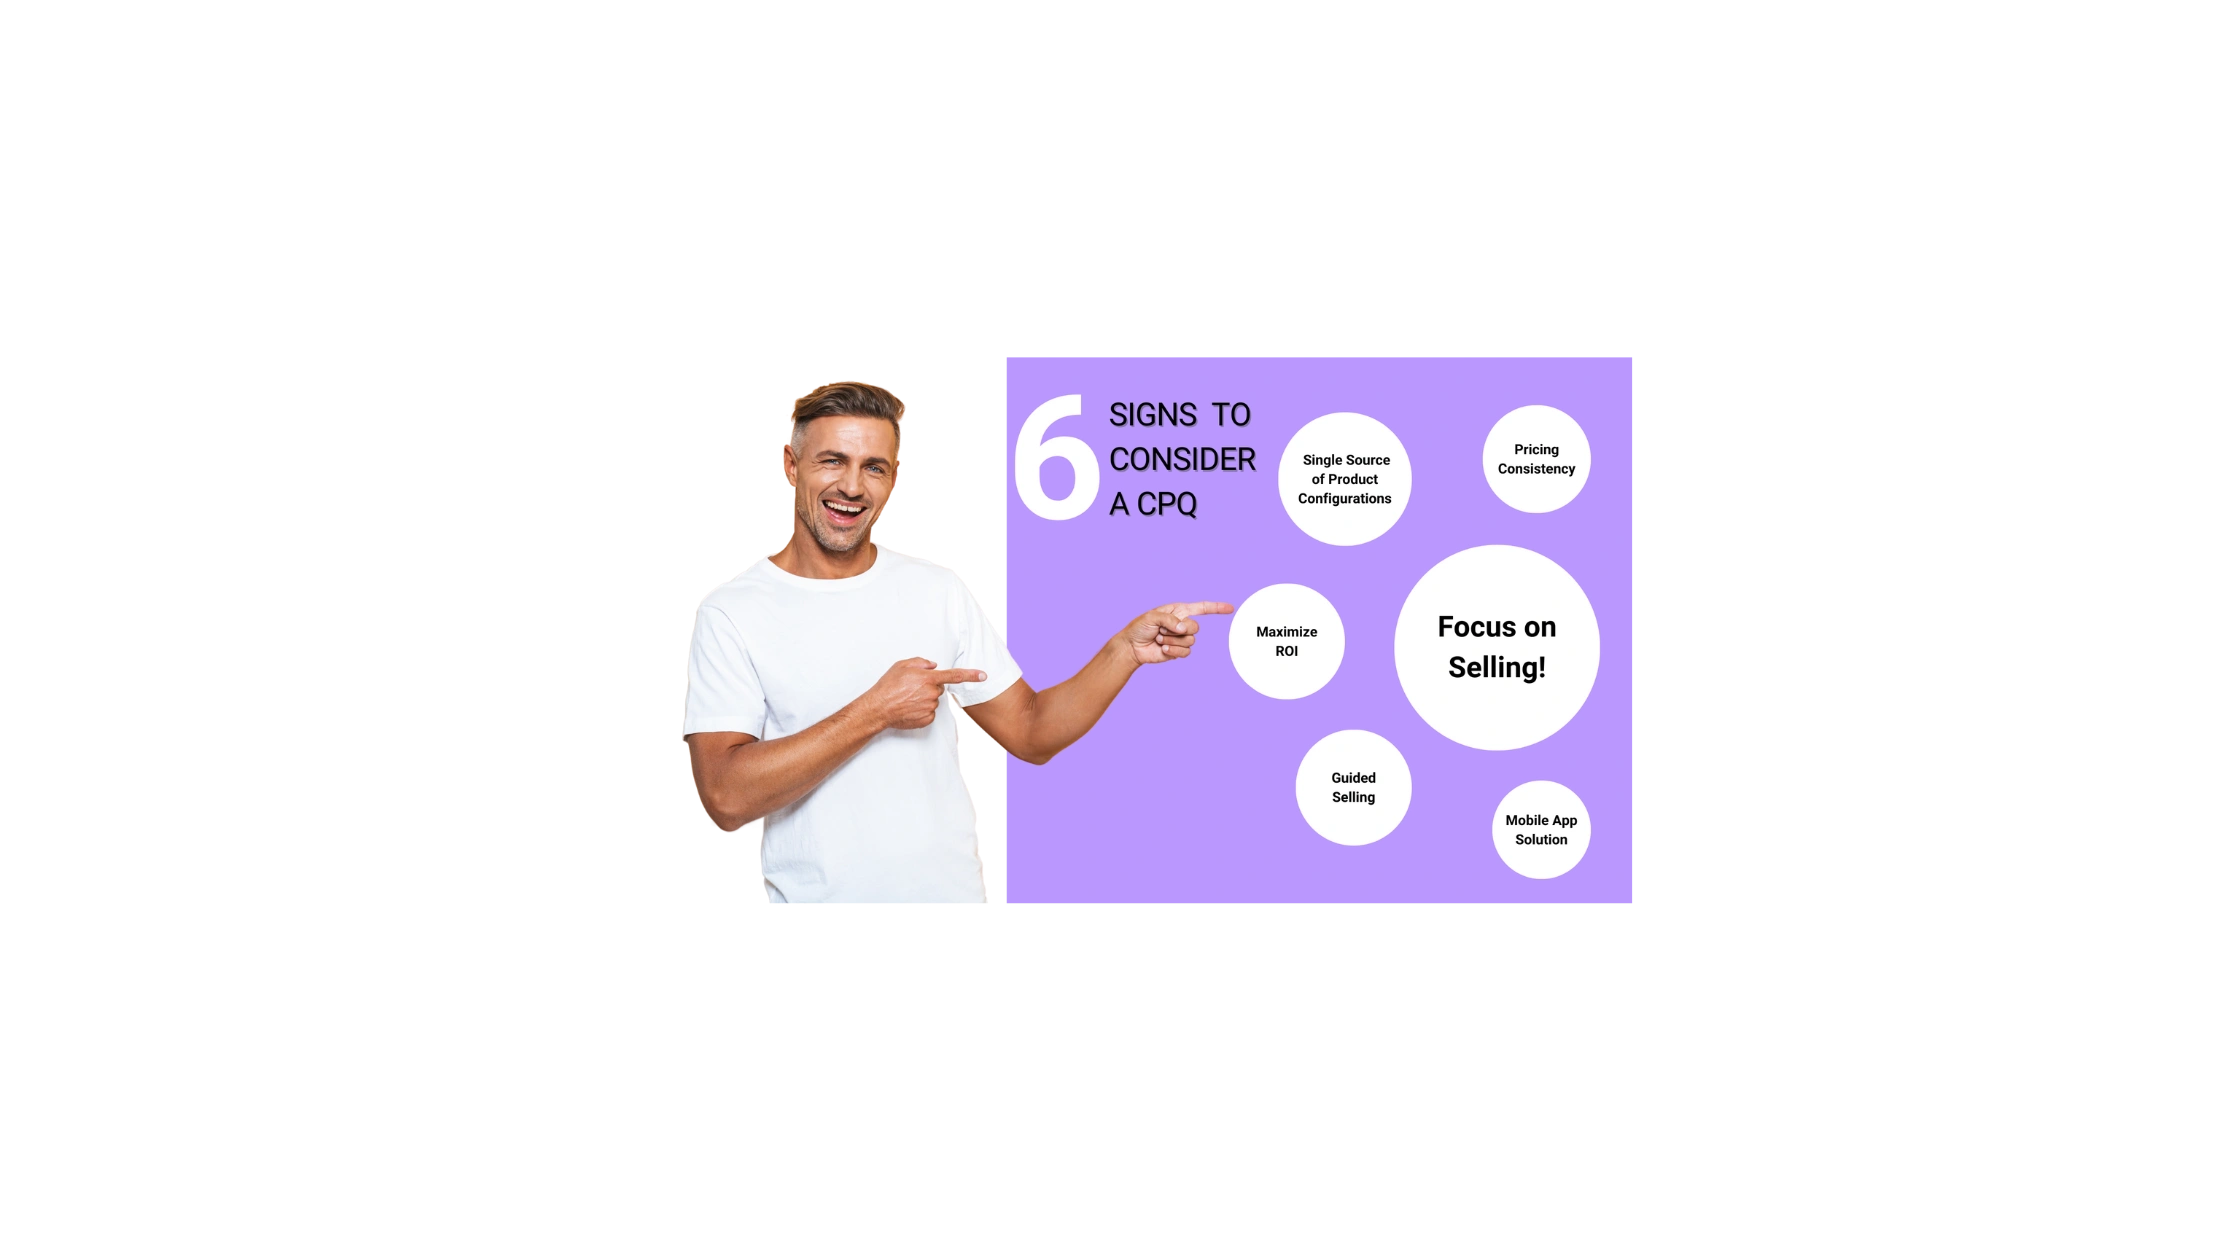
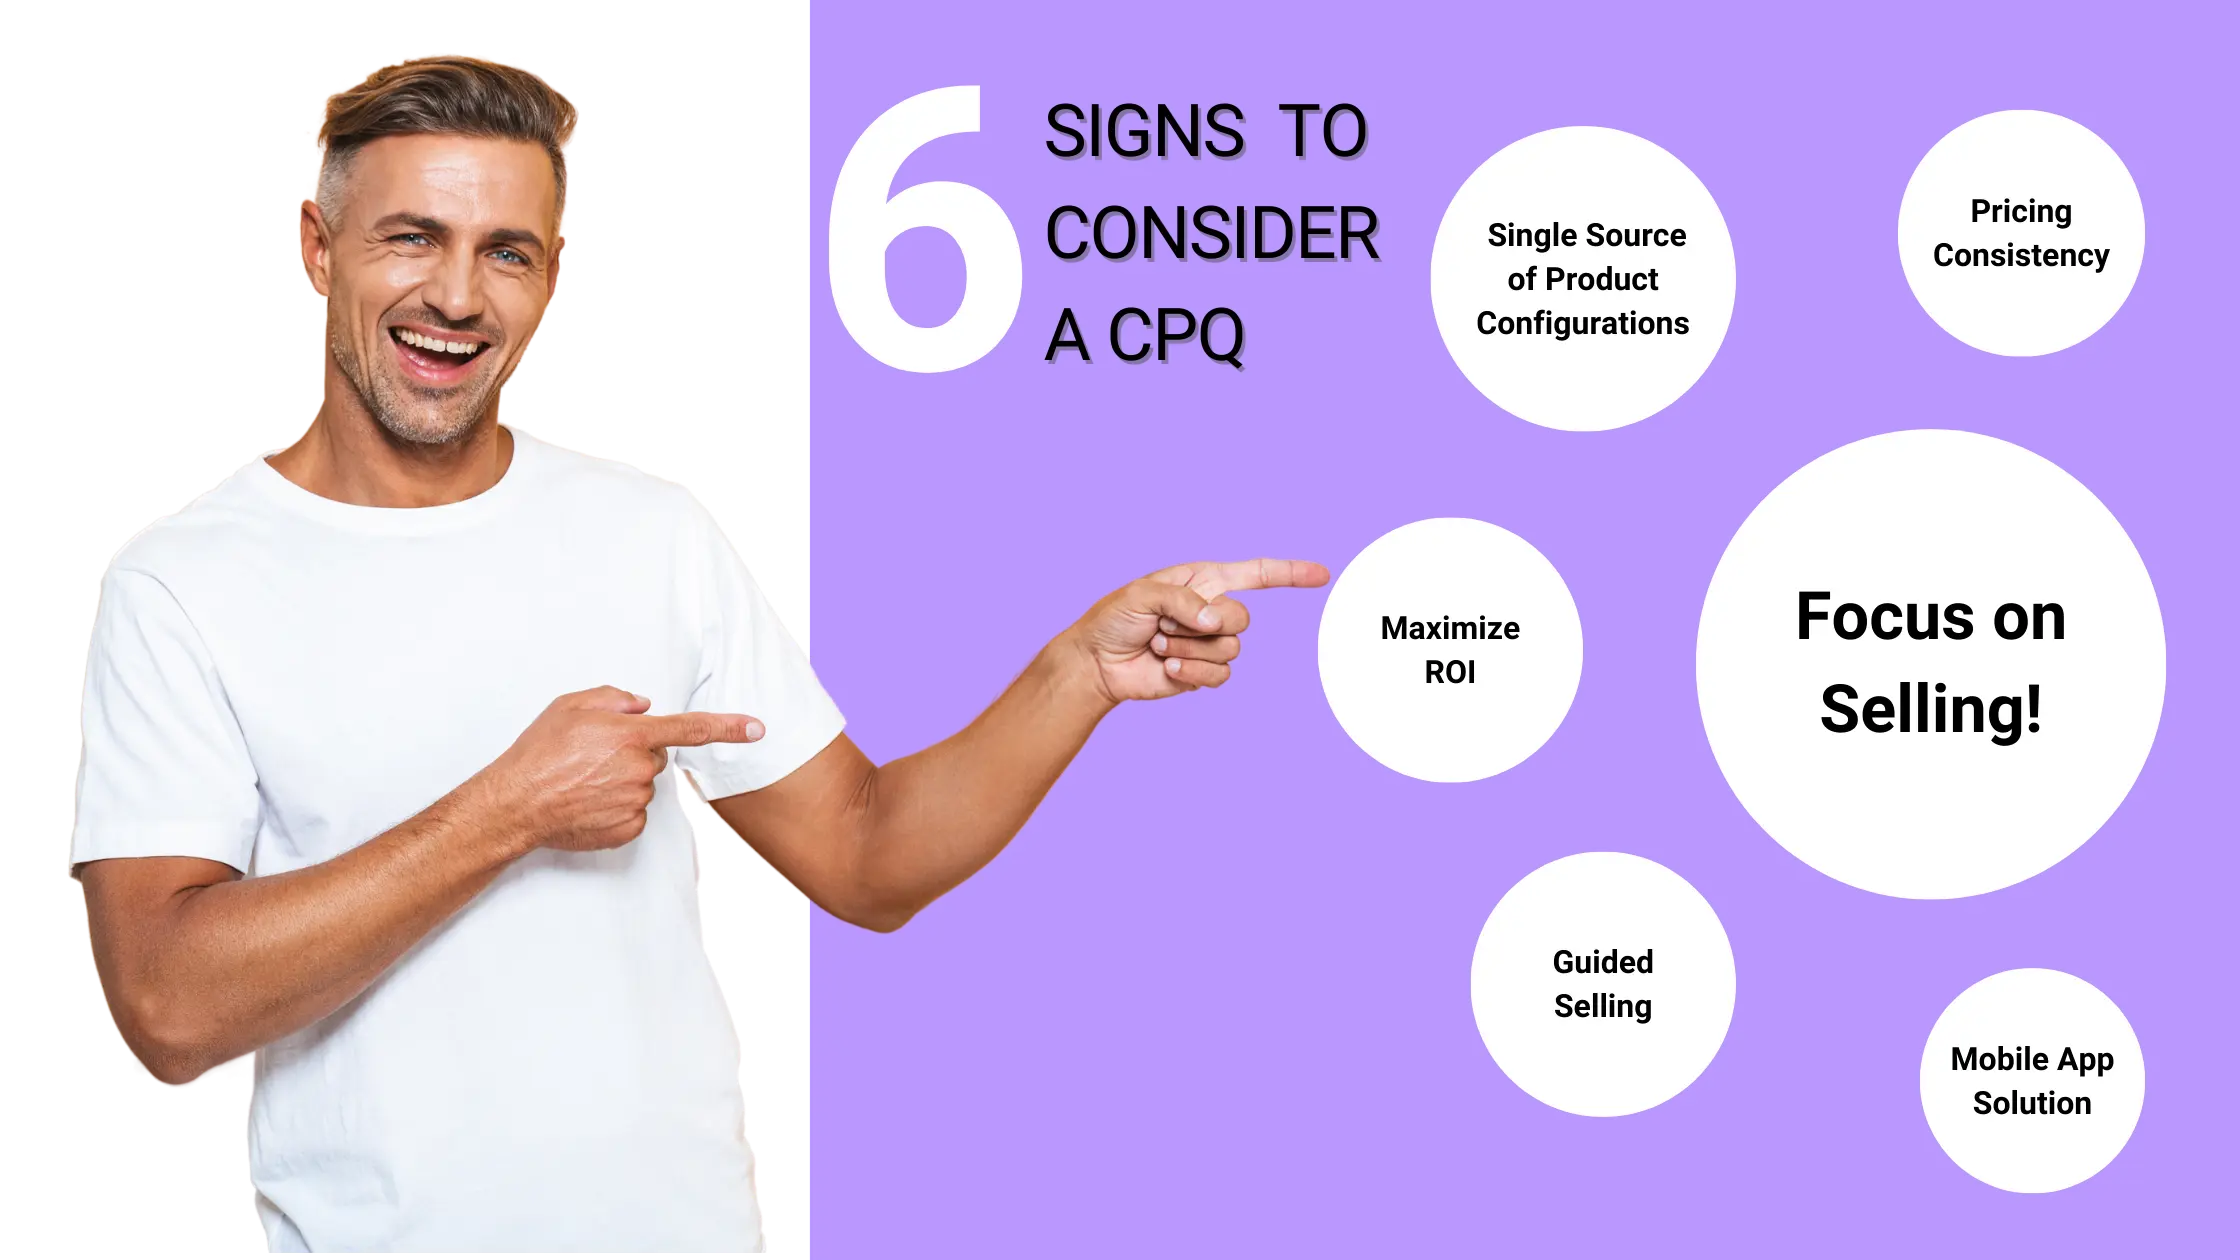
Updated Page

diff --git a/assets/css/pages-css/landingTwo.css b/assets/css/pages-css/landingTwo.css
@@ -11,13 +11,14 @@
   height: 600px;
   display: flex;
   flex-direction: column;
-  margin: -1px;
+  margin-top: -1px;
 }
 .handbook-section {
   width: 100%;
   display: flex;
-  padding: 60px 20px;
+  padding: 85px 20px;
   flex-direction: column;
+  background: aliceblue;
 }
 
 .landing-page-cintainer {
@@ -79,6 +80,7 @@
 .ebook-third-section {
   display: flex;
   padding: 0px 0px 25px 0px;
+  padding: 76px 0px;
 }
 
 .ebook-third-image {
@@ -98,6 +100,7 @@
 
 .ebook-section-second-content {
   width: 50%;
+  padding: 0px 10px;
 }
 
 .ebook-second-image {
@@ -133,9 +136,10 @@
 }
 
 .ebook-third-images {
-  width: 300px;
-  height: 300px;
+  width: 369px;
+  height: 403px;
 }
+
 .ebook-why-adapt {
   font-weight: 700;
   font-size: 24px;
@@ -177,13 +181,15 @@
 }
 
 .ebook-automation-tool {
-  font-size: 24px;
+  font-size: 30px;
+  line-height: 36px;
   font-weight: 700;
 }
 .ebook-review-content {
   font-weight: 500;
   letter-spacing: 0.1px;
-  font-size: 16px;
+  font-size: 18px;
+  line-height: 30px;
 }
 .sandya-s-hegde {
   font-size: 16px;
@@ -195,6 +201,7 @@
   display: flex;
   flex-direction: column;
   width: 100%;
+  padding: 20px 0px;
 }
 
 .ebook-demo-heading {
@@ -308,7 +315,7 @@
   .ebook-left,
   .ebook-section-second-content {
     order: 2;
-    padding-left: 10px;
+    padding: 20px 0px 20px 10px;
   }
   .download-ebook-button {
     margin: 10px 0px;
@@ -343,7 +350,7 @@
     height: 58px;
   }
   .ebook-form {
-    width: 70%;
+    width: 82%;
   }
   .ebook-review-content {
     font-size: 13px;
@@ -385,5 +392,22 @@
   }
   .ebook-review-content {
     padding: 10px;
+  }
+  .ebook-third-images {
+    width: auto;
+    height: 321px;
+  }
+  .ebook-third-section {
+    padding: 27px 0px;
+  }
+  .ebook-automation-tool {
+    font-size: 23px;
+    padding: 10px 0px;
+  }
+  .ebook-founder-section-content {
+    gap: 0px;
+  }
+  .ebook-review-content {
+    line-height: inherit;
   }
 }

diff --git a/pages/dealdox-cpq-handbook.vue b/pages/dealdox-cpq-handbook.vue
@@ -1,44 +1,34 @@
 <template>
-  <div style="display: flex;flex-direction: column;">
-
-    <landingTwoPage1 v-if="ebookref" :ebookref="ebookref"/>
-    <ebookDemo ref="ebookref"/>
+  <div v-if="isReady" style="display: flex; flex-direction: column;">
+    <landingTwoPage1 :ebookref="ebookref" />
+    <ebookDemo ref="ebookref" />
     <DealDoxFooter />
-
   </div>
-
-
-
 </template>
 
-
 <script>
-
 import DealDoxFooter from '../layouts/DealDoxFooter.vue';
-import landingTwoPage1 from '../components/cpqSotware/landingTwoPage1.vue'
-import ebookDemo from '../components/cpqSotware/ebookDemo.vue'
+import landingTwoPage1 from '../components/cpqSotware/landingTwoPage1.vue';
+import ebookDemo from '../components/cpqSotware/ebookDemo.vue';
 
 export default {
   name: "dealdox-cpq-handbook",
   components: {
-
     landingTwoPage1,
     ebookDemo,
     DealDoxFooter
   },
   data() {
-      return {
-        ebookref: null
-      };
-    },
-    mounted() {
-      this.$nextTick(() => {
-        this.ebookref = this.$refs.ebookref;
-      });
-    }
-}
-
-
+    return {
+      ebookref: null,
+      isReady: false,
+    };
+  },
+  mounted() {
+    this.$nextTick(() => {
+      this.ebookref = this.$refs.ebookref;
+      this.isReady = true;
+    });
+  }
+};
 </script>
-
-

diff --git a/components/cpqSotware/landingTwoPage1.vue b/components/cpqSotware/landingTwoPage1.vue
@@ -1,7 +1,7 @@
 <template>
     <div class="landing-page-cintainer">
         <div class="handbook-header-container">
-            <img src='../../assets/images/footer-logo.svg' alt="logo" width="200px" style="padding: 30px;" />
+            <img src='../../assets/images/New-Landing-Images/White DD Logo.png' alt="logo" width="100px" style="padding: 11px;" />
             <div class="handbook-header">
                 <div class="ebook-left">
                     <div class="ebook-inside-content">
@@ -49,7 +49,7 @@
                 </div>
 
                 <div class="ebook-second-image">
-                    <img src="../../assets/images/New-Landing-Images/SignsToConsiderCpq1.jpg" alt=""
+                    <img src="../../assets/images/New-Landing-Images/SignsToConsiderCpq.webp" alt=""
                         class="ebook-second-images">
                 </div>
             </div>
